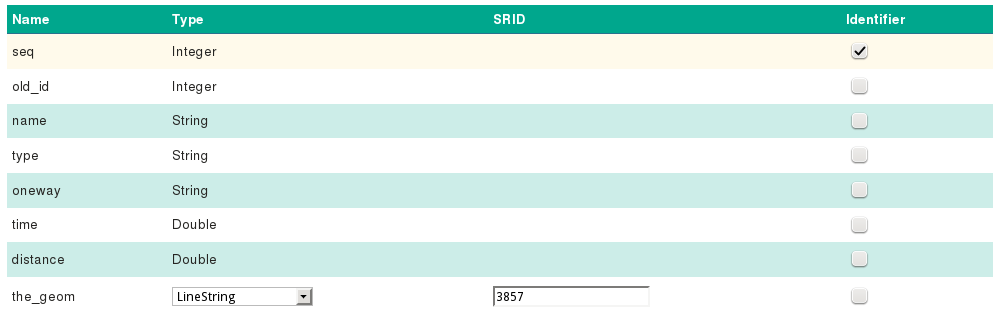
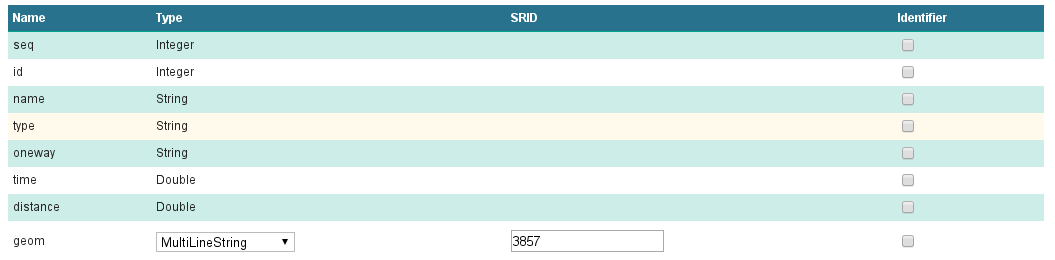
update tutorial for Suite 4.5

Changed region(s): [[0.0, 0.0, 1.0, 0.9846], [0.1244, 0.3692, 0.2177, 0.4], [0.0, 0.3692, 0.0622, 0.4]]

diff --git a/tutorials/osm-routing/src/conf.py b/tutorials/osm-routing/src/conf.py
@@ -109,7 +109,7 @@ html_favicon = 'favicon.ico'
 # relative to this directory. They are copied after the builtin static files,
 # so a file named "default.css" will overwrite the builtin "default.css".
 #html_static_path = [ theme_dir + '/_static']
-html_static_path = [ '../code' ]
+#html_static_path = [ '../code' ]
 
 # If not '', a 'Last updated on:' timestamp is inserted at every page bottom,
 # using the given strftime format.

diff --git a/tutorials/osm-routing/src/index.rst b/tutorials/osm-routing/src/index.rst
@@ -25,23 +25,13 @@ We will need the following software during our tutorial:
 
 .. note::
 
-   There are many ways to install pgRouting, depending on your system's operating system and architecture. The following steps can be used to install pgRouting on 64-bit Ubuntu 12.04 alongside OpenGeo Suite 4.0.2:
+   There are many ways to install pgRouting, depending on your system's operating system and architecture. The following steps can be used to install pgRouting on 64-bit Ubuntu 14.04 alongside OpenGeo Suite 4.5:
 
    .. code-block:: bash
 
-       wget http://ftp.debian.org/debian/pool/main/p/pgrouting/postgresql-9.3-pgrouting_2.0.0-2_amd64.deb
-       wget http://ftp.debian.org/debian/pool/main/c/cgal/libcgal10_4.4-1+b1_amd64.deb
-       wget http://ftp.debian.org/debian/pool/main/b/boost1.54/libboost-thread1.54.0_1.54.0-5_amd64.deb
-       wget http://ftp.debian.org/debian/pool/main/b/boost1.54/libboost-system1.54.0_1.54.0-5_amd64.deb
-       wget http://ftp.debian.org/debian/pool/main/b/boost1.55/libboost-thread1.55.0_1.55.0+dfsg-1_amd64.deb
-       wget http://ftp.debian.org/debian/pool/main/b/boost1.55/libboost-system1.55.0_1.55.0+dfsg-1_amd64.deb
-
-       sudo dpkg -i libboost-system1.54.0_1.54.0-5_amd64.deb
-       sudo dpkg -i libboost-thread1.54.0_1.54.0-5_amd64.deb 
-       sudo dpkg -i libboost-system1.55.0_1.55.0+dfsg-1_amd64.deb 
-       sudo dpkg -i libboost-thread1.55.0_1.55.0+dfsg-1_amd64.deb 
-       sudo dpkg -i libcgal10_4.4-1+b1_amd64.deb
-       sudo dpkg -i postgresql-9.3-pgrouting_2.0.0-2_amd64.deb 
+      sudo add-apt-repository ppa:georepublic/pgrouting
+      sudo apt-get update
+      sudo apt-get install postgresql-9.3-pgrouting
 
 Follow Boundless’s documentation on installing OpenGeo Suite and make sure that PostgreSQL is configured for use with GeoServer as described in `our documentation <http://suite.opengeo.org/docs/latest/installation/index.html>`_.
 
@@ -63,13 +53,13 @@ Our first stop will be to download the city-specific OpenStreetMap data for our 
 
 Download the `OSM2PGSQL SHP for Portland Me <http://wiki.openstreetmap.org/wiki/Osm2pgsql>`_ and extract the files::
 
-  $ wget https://s3.amazonaws.com/metro-extracts.mapzen.com/portland-me.osm2pgsql-shapefiles.zip
-  $ unzip portland-me.osm2pgsql-shapefiles.zip
+  wget https://s3.amazonaws.com/metro-extracts.mapzen.com/portland_maine.osm2pgsql-shapefiles.zip
+  unzip portland_maine.osm2pgsql-shapefiles.zip
 
 We next need to create a new `routing` database in PostgreSQL into which we will be importing our data. We also need to enable the spatial PostGIS functions::
 
-  $ createdb routing;
-  $ psql -c "CREATE EXTENSION postgis;" routing
+  createdb routing;
+  psql -c "CREATE EXTENSION postgis;" routing
 
 The OSM data we are using stores all features in three ShapeFiles, one each for points, lines and polygons. Road data is stored in the `portland-me.osm-line.shp` file, but it also contains other features that we are not interested in. If we look at the data, we’ll notice that roads and other ways always have a value for the attribute `highway` and non-road features have an empty value for this attribute. 
 
@@ -87,14 +77,14 @@ We can use OGR, to load the data into the database accomplish all of the goals w
 
 Putting these all together we get the following command::
 
-  $ ogr2ogr \ 
-      -where "highway <> ''" \
-      -select 'name,highway,oneway,surface' \
-      -lco GEOMETRY_NAME=the_geom \
-      -lco FID=id \
-      -t_srs EPSG:3857 \
-      -f PostgreSQL PG:"dbname=routing user=postgres" \
-      -nln edges portland-me.osm-line.shp \
+  ogr2ogr \ 
+    -where "highway <> ''" \
+    -select 'name,highway,oneway,surface' \
+    -lco GEOMETRY_NAME=the_geom \
+    -lco FID=id \
+    -t_srs EPSG:3857 \
+    -f PostgreSQL PG:"dbname=routing user=postgres" \
+    -nln edges portland_maine.osm-line.shp
 
 Building a network
 ------------------
@@ -103,8 +93,11 @@ As we discussed earlier, pgRouting needs a network of vertices (the stations in 
 
 We start by launching the PostgreSQL shell and then loading the pgRouting extension::
 
-  $ psql routing
-  # CREATE EXTENSION pgrouting;
+  psql -U postgres routing
+
+When the ``psql`` prompt appears, enter the following command::
+
+  CREATE EXTENSION pgrouting;
 
 The function that we will be using, `pgr_createTopology`, will create a new table which contains all the starting and ending points of all lines in the edges table (without duplicating shared point).
 
@@ -249,7 +242,21 @@ Based on the distance, type and surface we can now estimate the amount of time n
       ELSE distance / 20
     END;
 
-Dividing the distance by our speed estimates for each road type gives us the number of hours required to travel along that segment.
+Dividing the distance by our speed estimates for each road type gives us the number of hours required to travel along that segment. Let's also set the distance to the special value of ``-1`` for the types of edges that we don't want vehicles to travel along.
+
+.. code-block:: sql
+
+  UPDATE edges_noded SET
+    distance = 
+    CASE type
+      WHEN 'steps' THEN -1
+      WHEN 'path' THEN -1
+      WHEN 'footway' THEN -1
+      WHEN 'cycleway' THEN -1
+      WHEN 'proposed' THEN -1
+      WHEN 'construction' THEN -1 
+      ELSE distance
+    END;
 
 There is one more data point we could have used to help fine tune how long it takes to travel along road segments.
 
@@ -266,7 +273,6 @@ There is one more data point we could have used to help fine tune how long it ta
    asphalt
    sand
 
-
 Testing
 -------
 
@@ -278,7 +284,7 @@ We can test that the routing works by using the `pgr_dijkstra` function (which i
     id1 AS vertex, 
     id2 AS edge, 
     cost 
-  FROM pgr_dijkstra('SELECT id, source::INT4, target::INT4, distance AS cost FROM edges_noded', 1000, 757, false, false) 
+  FROM pgr_dijkstra('SELECT id, source::INT4, target::INT4, time AS cost FROM edges_noded', 1000, 757, false, false) 
   ORDER BY seq;
 
    vertex | edge  |        cost         
@@ -295,7 +301,7 @@ We can test that the routing works by using the `pgr_dijkstra` function (which i
 
 Note how we pass a sub-query as an argument to `pgr_dijkstra`. This is us telling pgRouting what network to use when looking for the route, and because it is regular SQL we can fine tune what kind of route to look for. We could, for example, tell pgRouting to ignore all motorways when looking for a route by adding the following where clause: `WHERE type <> 'motorway'`. Best of all, this can be done dynamically, so we can change the routing parameters with every request.
 
-For our purposes, we should note that if we replace `distance` with `time` in the sub-query, this will tell pgRouting to find the fastest route between the two points rather than the shortest route (remember that we travel faster on certain types of roads).
+For our purposes, we should note that if we replace `time` with `distance` in the sub-query, this will tell pgRouting to find the shortest route between the two points rather than the fastest route (remember that we travel slower on certain types of roads).
 
 Thus far we haven’t taken one-way roads into account. The same `pgr_dijktra` algorithm can handle one-way roads if we add a `reverse_cost` column. As before, we need to set the cost to `-1` when we don't want to allow an edge to be used; therefore we will use `-1` as the `reverse_cost` when the `oneway` attribute is `yes`. If the road is not one-way, we use the same cost in the forward and reverse direction.
 
@@ -305,7 +311,7 @@ Thus far we haven’t taken one-way roads into account. The same `pgr_dijktra` a
     id1 AS vertex, 
     id2 AS edge, 
     cost 
-  FROM pgr_dijkstra('SELECT id, source::INT4, target::INT4, distance AS cost, CASE oneway WHEN ''yes'' THEN -1 ELSE distance END AS reverse_cost FROM edges_noded', 1000, 757, true, true) 
+  FROM pgr_dijkstra('SELECT id, source::INT4, target::INT4, time AS cost, CASE oneway WHEN ''yes'' THEN -1 ELSE time END AS reverse_cost FROM edges_noded', 1000, 757, true, true) 
   ORDER BY seq;
 
 By joining the results of the query with the `edges_noded` table, we can get the complete information about the route that will be taken rather than just the edge and vertex numbers.
@@ -320,7 +326,7 @@ By joining the results of the query with the `edges_noded` table, we can get the
     e.time AS time, 
     e.distance AS distance 
   FROM 
-    pgr_dijkstra('SELECT id, source::INT4, target::INT4, distance AS cost, CASE oneway WHEN ''yes'' THEN -1 ELSE distance END AS reverse_cost FROM edges_noded', 753, 756, true, true) AS r,
+    pgr_dijkstra('SELECT id, source::INT4, target::INT4, time AS cost, CASE oneway WHEN ''yes'' THEN -1 ELSE time END AS reverse_cost FROM edges_noded', 753, 756, true, true) AS r,
     edges_noded AS e 
   WHERE r.id2 = e.id;
 
@@ -353,7 +359,7 @@ Remember that we took the original lines from OpenStreetMap and split them into 
     sum(e.time) AS time, 
     sum(e.distance) AS distance 
   FROM 
-    pgr_dijkstra('SELECT id, source::INT4, target::INT4, distance AS cost, CASE oneway WHEN ''yes'' THEN -1 ELSE distance END AS reverse_cost FROM edges_noded', 753, 756, true, true) AS r,
+    pgr_dijkstra('SELECT id, source::INT4, target::INT4, time AS cost, CASE oneway WHEN ''yes'' THEN -1 ELSE time END AS reverse_cost FROM edges_noded', 753, 756, true, true) AS r,
     edges_noded AS e 
   WHERE r.id2 = e.id 
   GROUP BY e.old_id, e.name, e.type, e.oneway;
@@ -377,19 +383,19 @@ Our database work is now complete and we can publish an SQL View which will crea
 SQL View
 ^^^^^^^^
 
-Configure a new SQL View named shortest_path with the following SQL query:
+Configure a new SQL View named ``shortest_path`` with the following SQL query:
 
 .. code-block:: sql
 
   SELECT
-    min(r.seq),
+    min(r.seq) AS seq,
     e.old_id AS id, 
     e.name,
     e.type, 
     e.oneway, 
     sum(e.time) AS time, 
     sum(e.distance) AS distance,
-    ST_Union(e.the_geom)
+    ST_Collect(e.the_geom) AS geom
   FROM 
     pgr_dijkstra(
      'SELECT 
@@ -410,14 +416,14 @@ Configure a new SQL View named shortest_path with the following SQL query:
 
 The SQL View has three parameters: `source`, `target` and `cost`. The first two will be the vertex identification number and we will set `cost` to either `distance` or `time` depending on which metric we wish to use to calculate the route.
 
-Note also the `ST_Union` call will combine the individual `lineString` segments into a single `multiLineString` geometry in the same way that we use `sum` to calculate the total time and distance costs.
+Note also the `ST_Collect` call will combine the individual `lineString` segments into a single `multiLineString` geometry in the same way that we use `sum` to calculate the total time and distance costs.
 
-For security purposes, when we are creating the SQL View, we should change the regular expression validation for `source` and `target` so that only digits are allowed `(^[\d]+$)` and cost such that the words “cost” and “distance” are allowed `(^[\w]+$)`.
+For security purposes, when we are creating the SQL View, we should change the regular expression validation for `source` and `target` so that only digits are allowed `(^[\\d]+$)` and cost such that the words "time" and "distance" are allowed `(^[\\w]+$)`.
 
 .. image:: ./img/route_view_params.png
    :width: 95%
 
-Finally, ensure that we specify which attribute will uniquely identify each feature in the route (we will use seq since pgRouting gives each segment in the route a sequence number) and the geometry type and SRID.
+Finally, ensure that we specify which attribute will uniquely identify each feature in the route (we will use seq since pgRouting gives each segment in the route a sequence number) and the geometry type (**MultiLineString**) and SRID (**3857**).
 
 .. image:: ./img/route_view_attributes.png
    :width: 95%
@@ -443,7 +449,7 @@ Using the layer name `nearest_vertex`, publish the following SQL query:
     AND (e.source = v.id OR e.target = v.id) 
   GROUP BY v.id, v.the_geom
 
-Because coordinates may contain negative numbers or decimals, make sure to change the validation regular expressions to only include digits and both of the required symbols: `^[\d.-]+$`.
+Because coordinates may contain negative numbers or decimals, make sure to change the validation regular expressions to only include digits and both of the required symbols: `^[\\d.-]+$`.
 
 .. image:: ./img/vertex_view.png
    :width: 95%
@@ -710,15 +716,14 @@ The newly-retrieved route will be used to create a new layer to replace the prev
     routeSource = new ol.source.ServerVector({
       format: new ol.format.GeoJSON(),
       strategy: ol.loadingstrategy.all,
-      loader: function(extent, resolution, projection) {
+      loader: function(extent, resolution) {
         $.ajax({
           url: url,
           dataType: 'json',
           success: loadRoute,
           async: false
         });
-      },
-      projection: 'EPSG:3857'
+      }
     });
 
     // remove the previous layer and create a new one
